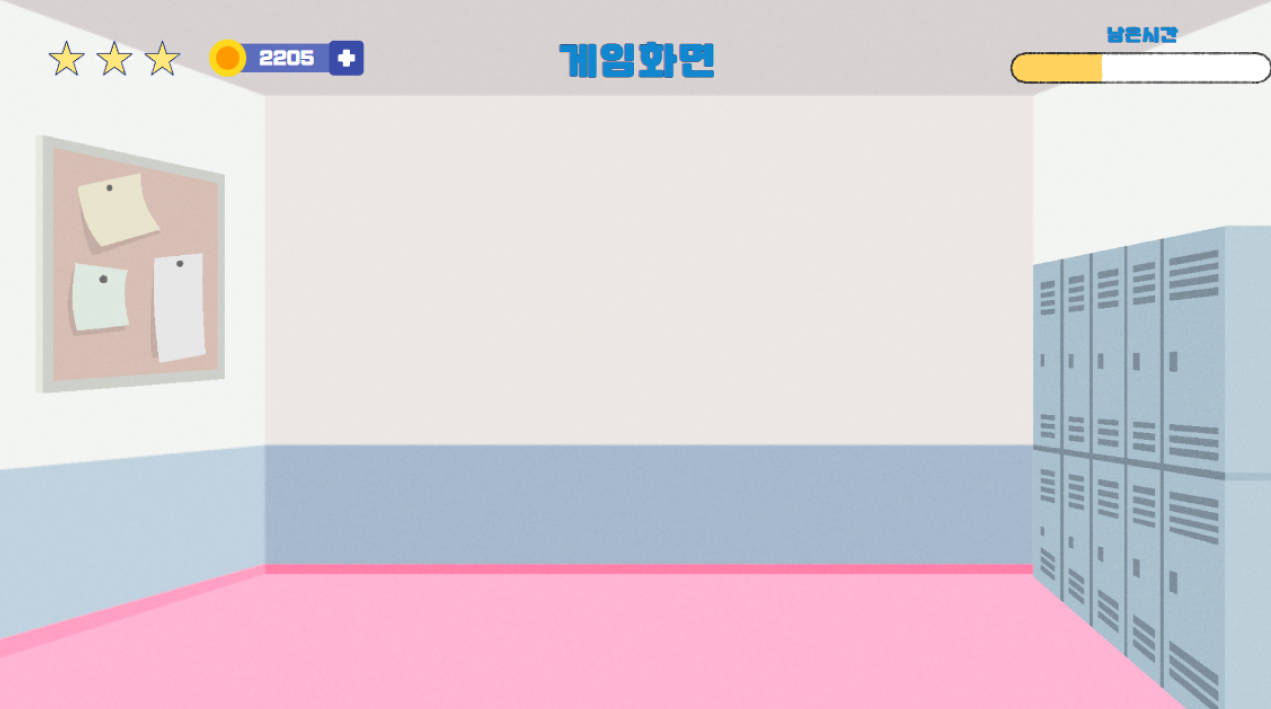
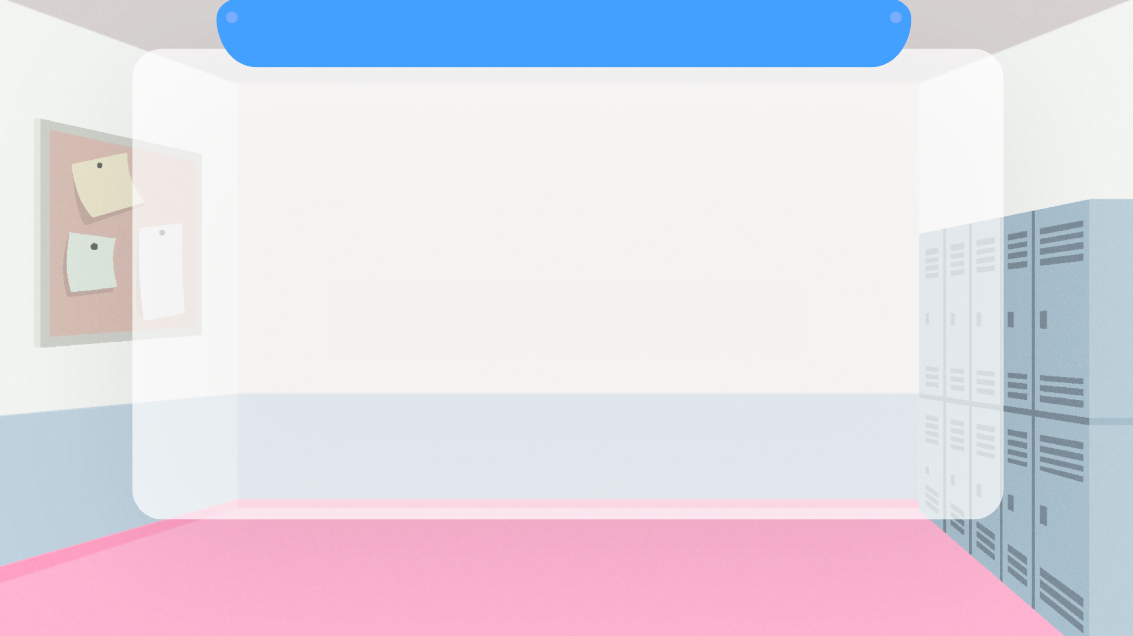
UPDATE : 게임 컴포넌트 기본 UI 수정

diff --git a/frontend/src/components/game/Header.jsx b/frontend/src/components/game/Header.jsx
@@ -8,6 +8,8 @@ import Box from "@mui/material/Box";
 import Toolbar from "@mui/material/Toolbar";
 // import MenuIcon from "@mui/icons-material/Menu";
 import Container from "@mui/material/Container";
+import coin from "../../assets/coin.png";
+import time from "../../assets/time.png";
 
 const HeaderComp = styled.div`
   font-family: "neodgm", sans-serif;
@@ -22,52 +24,86 @@ function Header(props) {
         // variant="outlined"
         style={{
           backgroundColor: "transparent",
-          height: "120px",
+          height: "130px",
           boxShadow: "none",
-          marginBottom: "10px",
         }}
       >
-        <Container maxWidth="xl">
+        <Container maxWidth="false">
           <Toolbar
             disableGutters
             sx={{
-              height: "120px",
+              height: "130px",
               display: "flex",
               justifyContent: "space-between",
               alignItems: "center",
             }}
           >
             <Box
-              component={Link}
               to="/mainPage"
               sx={{
-                display: "flex",
+                textAlign: "center",
                 color: "black",
-                fontSize: "1.2rem",
               }}
             >
-              점수에용
+              <div style={{ fontSize: "1.5rem" }}>점수</div>
+              <div
+                style={{
+                  display: "flex",
+                  justifyContent: "center",
+                  alignItems: "center",
+                  fontSize: "1.8rem",
+                  margin: 10,
+                }}
+              >
+                <img src={coin} alt="" style={{ width: "1.9rem" }} />
+                <div style={{ marginLeft: 5 }}>3,202 M</div>
+              </div>
             </Box>
             <Box
               sx={{
-                display: "flex",
-                //   justifyContent: "center",
-                //   alignItems: "center",
                 color: "black",
                 fontSize: "2.5rem",
+                textAlign: "center",
               }}
             >
-              <span>~ {props.props.title} ~</span>
+              <div
+                style={{
+                  color: "white",
+                  textShadow:
+                    "2px 0 0 black, 0 -2px 0 black, -2px 0 0 black, 0 2px 0 black",
+                }}
+              >
+                {props.props.number} of 20 ROUND
+              </div>
+              <div
+                style={{
+                  color: "yellow",
+                  textShadow:
+                    "2px 0 0 black, 0 -2px 0 black, -2px 0 0 black, 0 2px 0 black",
+                }}
+              >
+                ~ {props.props.title} ~
+              </div>
             </Box>
             <Box
               sx={{
-                display: "flex",
-                justifyContent: "flex-end",
+                textAlign: "center",
                 color: "black",
-                fontSize: "1.2rem",
               }}
             >
-              남은시간
+              <div style={{ fontSize: "1.5rem" }}>남은시간</div>
+              <div
+                style={{
+                  display: "flex",
+                  justifyContent: "center",
+                  alignItems: "center",
+                  fontSize: "1.8rem",
+                  margin: 10,
+                }}
+              >
+                <img src={time} alt="" style={{ width: "1.9rem" }} />
+                <div style={{ marginLeft: 7 }}>2:00:00</div>
+              </div>
             </Box>
           </Toolbar>
         </Container>

diff --git a/frontend/src/pages/TissuePage.jsx b/frontend/src/pages/TissuePage.jsx
@@ -1,13 +1,16 @@
 import React from "react";
 import styled from "styled-components";
 import { useSelector } from "react-redux";
-import TissueGame from "../components/game/TissueGame";
+
 import Header from "../components/game/Header";
+import TissueGame from "../components/game/TissueGame";
+import GameComp from "../components/game/GameComp";
 import "../index.css";
 import game from "../assets/game.png";
 
 const Pages = styled.div`
-  // background-image: url(${game});
+  background-image: url(${game});
+  background-size: cover;
   position: relative;
   p {
     text-align: center;
@@ -17,16 +20,11 @@ const Pages = styled.div`
 
 const myProps = {
   title: "휴지를 최대한 많이! 뽑아보쟈",
+  number: 2,
 };
 
 export default function TissuePage() {
-  const containerStyle = {
-    display: "flex",
-    justifyContent: "center",
-    alignItems: "center",
-    height: "80vh",
-    flexDirection: "column",
-  };
+  const ContainerStyle = {};
   const imageStyle = {
     position: "relative",
     width: "100%",
@@ -52,23 +50,22 @@ export default function TissuePage() {
     zIndex: -1,
   };
 
-  const count = useSelector((state) => state.count);
-
   return (
     <Pages>
       <Header props={myProps} />
 
-      <div className="App" style={containerStyle}>
-        <p>count : {count}</p>
-        <img
-          src="고양이 휴지곽 뒷면.png"
-          style={{ ...imageStyle, ...image1Style }}
-        ></img>
-        <TissueGame style={{ ...imageStyle, ...image2Style }}></TissueGame>
-        <img
-          src="고양이 휴지곽 앞면.png"
-          style={{ ...imageStyle, ...image3Style }}
-        ></img>
+      <div
+        style={{
+          display: "flex",
+          justifyContent: "center",
+          alignItems: "center",
+          height: "100vh",
+          flexDirection: "column",
+        }}
+      >
+        <GameComp props={myProps}>
+          <TissueGame {...myProps} />
+        </GameComp>
       </div>
     </Pages>
   );

diff --git a/frontend/src/components/game/GameComp.jsx b/frontend/src/components/game/GameComp.jsx
@@ -1,34 +1,23 @@
 import * as React from "react";
 import Box from "@mui/material/Box";
 import Paper from "@mui/material/Paper";
-
-export default function GameComp() {
+import TimerBar from "./TimerBar";
+export default function GameComp(props) {
+  const { children } = props;
   return (
-    <Box
-      sx={{
-        display: "flex",
+    <div
+      style={{
+        display: "inline-block",
         justifyContent: "center",
         alignItems: "center",
         flexWrap: "wrap",
-        "& > :not(style)": {
-          m: 10,
-          width: 1200,
-          height: 600,
-        },
+        width: "60%",
+        height: "650px",
       }}
     >
-      {/* <Paper elevation={0} />
-      <Paper /> */}
-      <Paper
-        elevation={3}
-        sx={{
-          display: "flex",
-          justifyContent: "center",
-          alignItems: "center",
-        }}
-      >
-        게임 컴포넌트
-      </Paper>
-    </Box>
+      <TimerBar initialValue={80} decreaseValue={1} decreaseInterval={1000} />
+      {children}
+      {/* <Paper sx={{ marginBottom: 10}}></Paper> */}
+    </div>
   );
 }

diff --git a/frontend/src/pages/EmojiPage.jsx b/frontend/src/pages/EmojiPage.jsx
@@ -1,23 +1,40 @@
 import React from "react";
 import styled from "styled-components";
 import EmojiComp from "../components/game/EmojiComp";
+import TimerBar from "../components/game/TimerBar";
+import GameComp from "../components/game/GameComp";
 import Header from "../components/game/Header";
 import "../index.css";
+import game from "../assets/game.png";
 
 const Pages = styled.div`
   position: relative;
+  background-image: url(${game});
+  background-size: cover;
+  // width: "100vh";
+  // height: "100vh";
 `;
 
 const myProps = {
   title: "MM에 알맞은 이모지를 붙여보자",
+  number: 1,
 };
 
 export default function EmojiPage() {
   return (
     <Pages>
       <Header props={myProps} />
-
-      <EmojiComp />
+      <div
+        style={{
+          display: "flex",
+          justifyContent: "center",
+          height: "100vh",
+        }}
+      >
+        <GameComp props={myProps}>
+          <EmojiComp {...myProps} />
+        </GameComp>
+      </div>
     </Pages>
   );
 }

diff --git a/frontend/src/components/game/TimerBar.jsx b/frontend/src/components/game/TimerBar.jsx
@@ -1,0 +1,39 @@
+import React, { useState, useEffect } from "react";
+import styled from "styled-components";
+
+const BarContainer = styled.div`
+  width: 95%;
+  height: 20px;
+  border: 1px solid #ccc;
+  border-radius: 10px;
+  overflow: hidden;
+  margin: 20px;
+`;
+
+const Bar = styled.div`
+  height: 95%;
+  background-color: #7f7;
+  box-shadow: 1px 1px 5px rgba(0, 0, 0, 0.2);
+  transition: width 0.5s ease-in-out;
+  width: ${(props) => Math.max(props.value, 0)}%;
+`;
+
+const TimerBar = ({ initialValue, decreaseValue, decreaseInterval }) => {
+  const [value, setValue] = useState(initialValue);
+
+  useEffect(() => {
+    const interval = setInterval(() => {
+      setValue((prevValue) => prevValue - decreaseValue);
+    }, decreaseInterval);
+
+    return () => clearInterval(interval);
+  }, [decreaseInterval, decreaseValue]);
+
+  return (
+    <BarContainer>
+      <Bar value={value} />
+    </BarContainer>
+  );
+};
+
+export default TimerBar;

diff --git a/frontend/src/components/game/TissueGame.jsx b/frontend/src/components/game/TissueGame.jsx
@@ -1,11 +1,9 @@
 import { useState } from "react";
-import { useDispatch, useSelector } from "react-redux";
 
 export default function TissueGame() {
   const [isDragging, setIsDragging] = useState(false);
   const [initialMouseY, setInitialMouseY] = useState(0);
   const [initialImageY, setInitialImageY] = useState(0);
-
   const [imagePosition, setImagePosition] = useState(0);
   const images = [
     "1.png",
@@ -90,6 +88,17 @@ export default function TissueGame() {
           draggable="false"
         />
       )}
+
+      {/* <p>count : {}</p>
+      <img
+        src="고양이 휴지곽 뒷면.png"
+        style={{ ...imageStyle, ...image1Style }}
+      ></img>
+      <TissueGame style={{ ...imageStyle, ...image2Style }}></TissueGame>
+      <img
+        src="고양이 휴지곽 앞면.png"
+        style={{ ...imageStyle, ...image3Style }}
+      ></img> */}
     </div>
   );
 }

diff --git a/frontend/src/components/game/EmojiComp.jsx b/frontend/src/components/game/EmojiComp.jsx
@@ -13,17 +13,6 @@ import online from "../../assets/online.png";
 import mmtop from "../../assets/mmtop.png";
 import MattermostEmoji from "./MattermostEmoji";
 
-// const card = () => {
-//   return (
-//     <div style={{ display: "flex", padding: 0 }}>
-//       {/* <img src={header} /> */}
-//       {/* <Box sx={{ width: "40%", backgroundImage: `url(${mm})` }}>
-//         {/* <img src={mm} /> */}
-//       {/* </Box> */}
-//     </div>
-//   );
-// };
-
 export default function Emoji() {
   return (
     <div>
@@ -31,7 +20,7 @@ export default function Emoji() {
         sx={{
           margin: "0 auto",
           maxWidth: 1000,
-          minHeight: 600,
+          maxHeight: 600,
           border: 1,
           borderColor: "gray",
           position: "relative",
